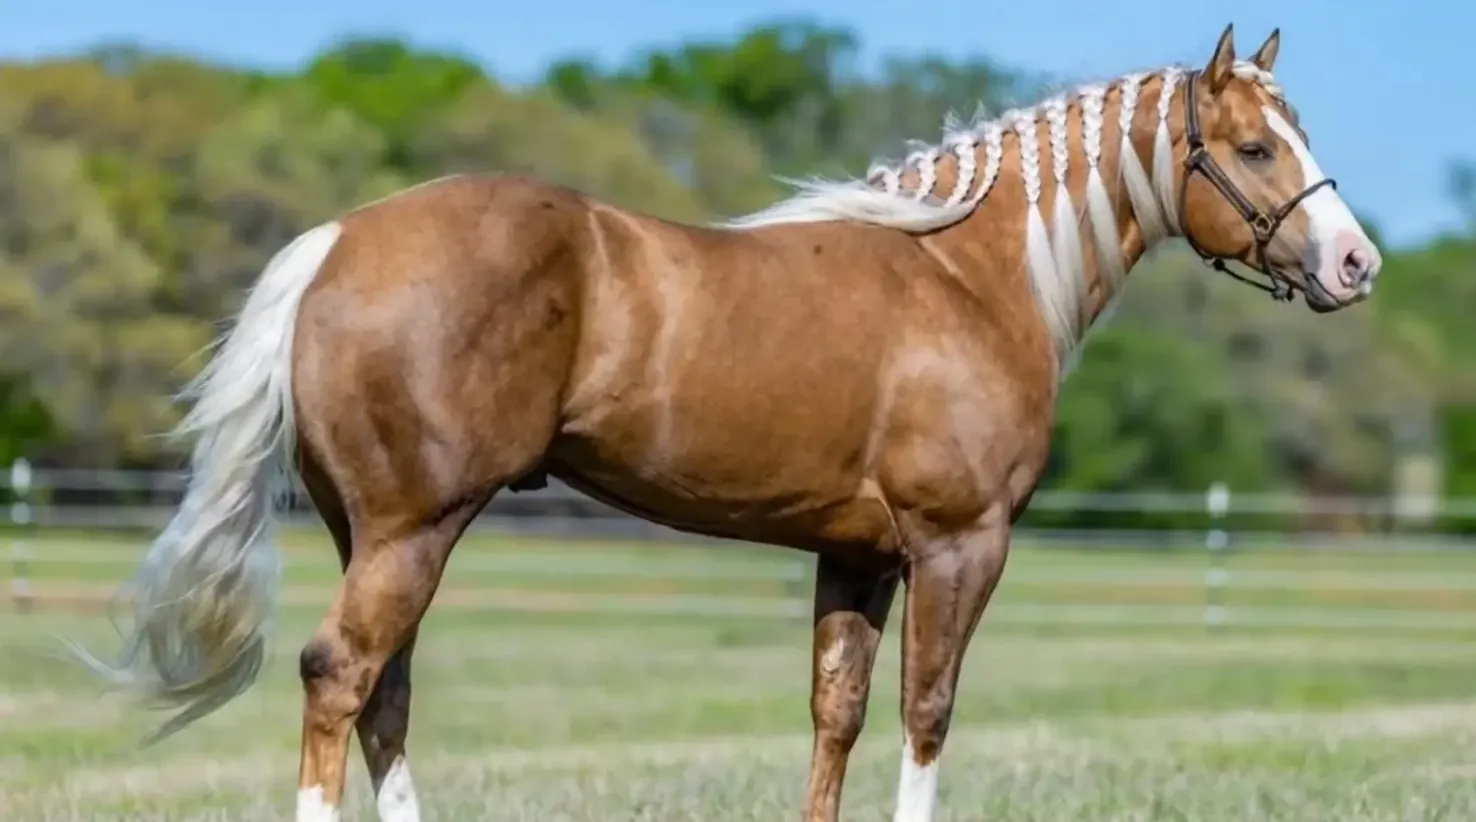
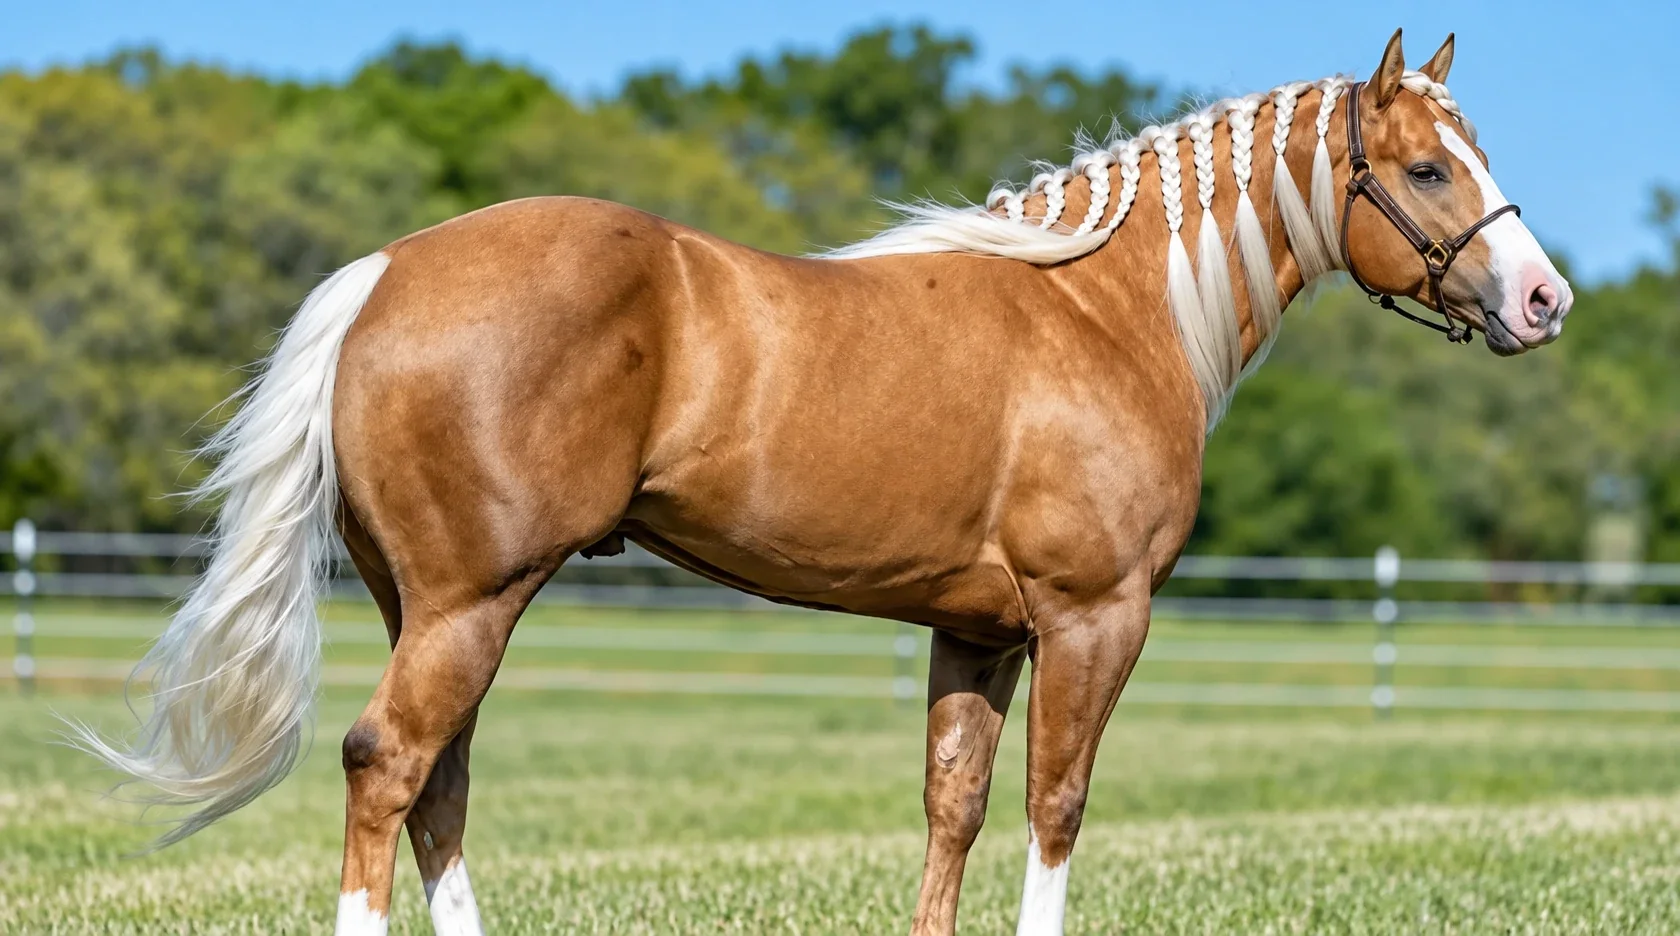
Use the higher-quality Adios Pantalones photo
Replaces the landscape Adios photo (1476×822 → 1680×936) in the Plantel
panel, his page hero and the "Próximo garanhão" link, and rebuilds his
share preview from it.

diff --git a/garanhoes/adios-pantalones.html b/garanhoes/adios-pantalones.html
@@ -32,7 +32,7 @@
 
 <main>
 <header class="g-hero" id="hero">
-  <picture><source media="(max-width: 760px) and (orientation: portrait)" srcset="../assets/m/adios-perfil.webp"><img src="../assets/adios-perfil.webp" alt="Adios Pantalones, garanhão palomino com crina trançada, de perfil" width="1476" height="822" fetchpriority="high" style="--pos:62% 50%"></picture>
+  <picture><source media="(max-width: 760px) and (orientation: portrait)" srcset="../assets/m/adios-perfil.webp"><img src="../assets/adios-perfil.webp" alt="Adios Pantalones, garanhão palomino com crina trançada, de perfil" width="1680" height="936" fetchpriority="high" style="--pos:62% 50%"></picture>
   <div class="copy">
     <span class="label">Garanhão · Genética no Brasil pelo Condomínio Adios Pantalones</span>
     <h1 aria-label="Adios Pantalones"><span class="w"><i>A</i><i>d</i><i>i</i><i>o</i><i>s</i></span> <span class="w"><i>P</i><i>a</i><i>n</i><i>t</i><i>a</i><i>l</i><i>o</i><i>n</i><i>e</i><i>s</i></span></h1>

diff --git a/index.html b/index.html
@@ -402,7 +402,7 @@ a{color:inherit}
   <div class="pl-track" id="plTrack">
     <div class="pl-stage">
       <article class="pl-panel">
-        <picture><source media="(max-width: 760px) and (orientation: portrait)" srcset="assets/m/adios-perfil.webp"><img src="assets/adios-perfil.webp" alt="Adios Pantalones, garanhão palomino com crina trançada" loading="lazy" decoding="async" width="1476" height="822"></picture>
+        <picture><source media="(max-width: 760px) and (orientation: portrait)" srcset="assets/m/adios-perfil.webp"><img src="assets/adios-perfil.webp" alt="Adios Pantalones, garanhão palomino com crina trançada" loading="lazy" decoding="async" width="1680" height="936"></picture>
         <h2 class="pl-cat" aria-label="Garanhão">Garanhão</h2>
         <div class="pl-info">
           <div><span class="ped">Tres Seis × French Bar Belle · 2020</span><h3>Adios Pantalones</h3><a href="garanhoes/adios-pantalones.html">Conhecer o garanhão</a></div>

diff --git a/garanhoes/lucius-ta-fame.html b/garanhoes/lucius-ta-fame.html
@@ -78,7 +78,7 @@
 </section>
 
 <a class="g-next" href="adios-pantalones.html">
-  <picture><source media="(max-width: 760px) and (orientation: portrait)" srcset="../assets/m/adios-perfil.webp"><img src="../assets/adios-perfil.webp" alt="" loading="lazy" decoding="async" width="1476" height="822" style="--pos:62% 50%"></picture>
+  <picture><source media="(max-width: 760px) and (orientation: portrait)" srcset="../assets/m/adios-perfil.webp"><img src="../assets/adios-perfil.webp" alt="" loading="lazy" decoding="async" width="1680" height="936" style="--pos:62% 50%"></picture>
   <span class="copy"><span class="label">Próximo garanhão</span><b>Adios Pantalones</b></span>
 </a>
 </main>
